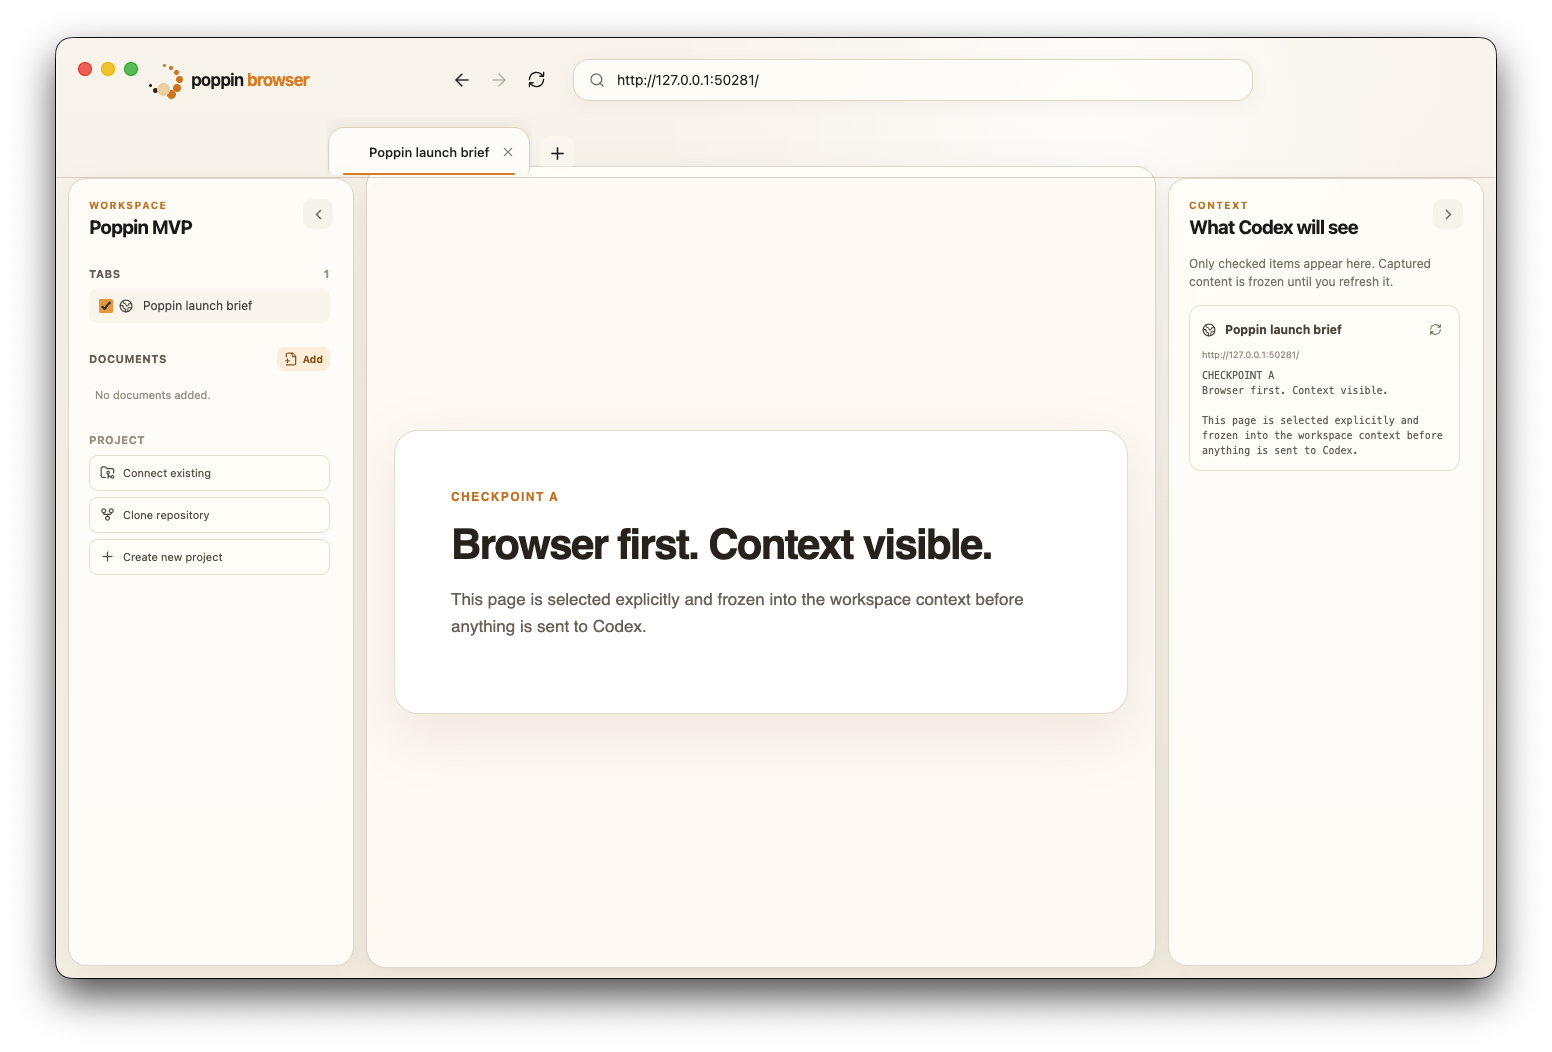
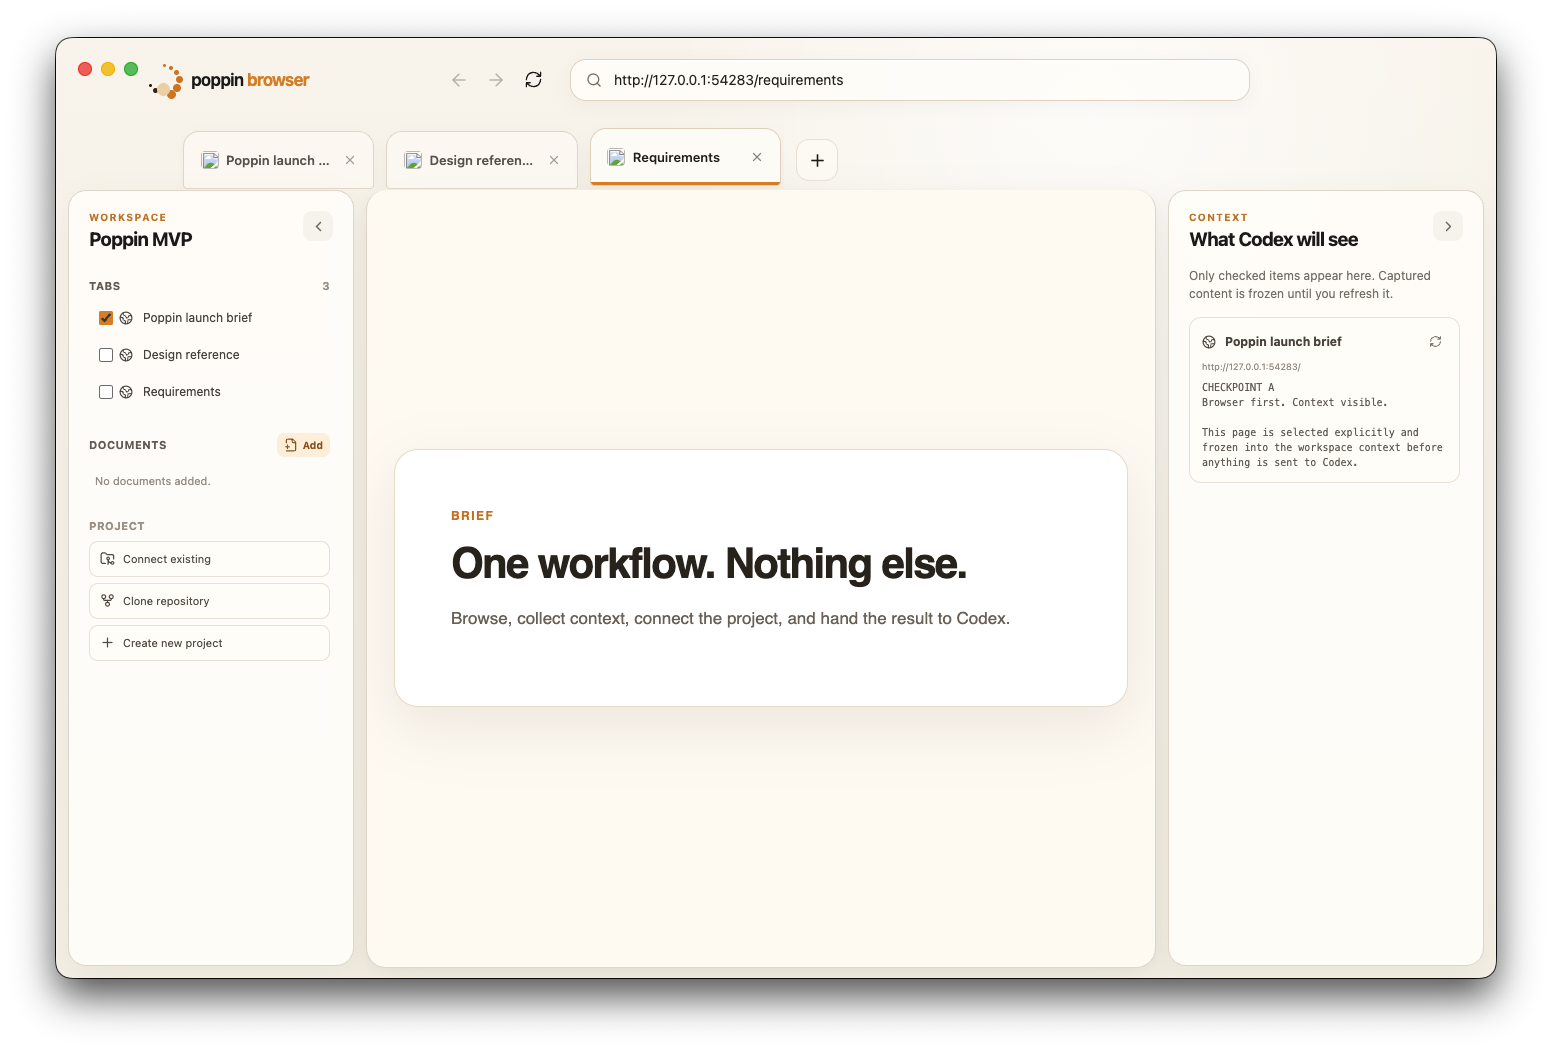
fix: align workspace chrome and tabs

diff --git a/src/renderer/styles.css b/src/renderer/styles.css
@@ -37,9 +37,8 @@ button { color: inherit; }
 .browser-chrome {
   position: relative;
   z-index: 2;
-  height: 140px;
-  padding: 14px 18px 0 92px;
-  border-bottom: 1px solid rgba(210, 197, 181, .7);
+  height: 152px;
+  padding: 14px 24px 0 92px;
   -webkit-app-region: drag;
 }
 
@@ -159,12 +158,12 @@ button { color: inherit; }
 .tab-row {
   display: flex;
   align-items: end;
-  height: 70px;
-  margin-left: 178px;
-  gap: 8px;
+  height: 82px;
+  margin-left: 32px;
+  gap: 12px;
   -webkit-app-region: no-drag;
 }
-.tab-strip { display: flex; min-width: 0; max-width: calc(100% - 58px); gap: 8px; overflow-x: auto; padding: 12px 2px 0; scrollbar-width: none; }
+.tab-strip { display: flex; min-width: 0; max-width: calc(100% - 64px); gap: 12px; overflow-x: auto; padding: 16px 3px 0; scrollbar-width: none; }
 .tab-strip::-webkit-scrollbar { display: none; }
 .tab {
   position: relative;
@@ -172,44 +171,45 @@ button { color: inherit; }
   grid-template-columns: 18px minmax(70px, 1fr) 22px;
   align-items: center;
   gap: 8px;
-  flex: 0 1 230px;
-  min-width: 150px;
-  max-width: 260px;
-  height: 48px;
-  padding: 0 10px 0 14px;
+  flex: 0 1 250px;
+  min-width: 170px;
+  max-width: 280px;
+  height: 58px;
+  padding: 0 12px 0 16px;
   overflow: hidden;
-  border: 1px solid rgba(222, 211, 198, .7);
-  border-bottom: 0;
-  border-radius: 16px 16px 6px 6px;
+  border: 1px solid rgba(226, 215, 202, .86);
+  border-radius: 16px 16px 4px 4px;
   color: #625b53;
-  background: rgba(247, 241, 231, .52);
+  background: rgba(255, 252, 247, .58);
+  box-shadow: 0 4px 14px rgba(67, 45, 20, .035);
   cursor: default;
   text-align: left;
   user-select: none;
   transition: transform 140ms ease, background-color 140ms ease, box-shadow 140ms ease;
 }
-.tab:hover { background: rgba(255, 252, 247, .72); }
+.tab:hover { transform: translateY(-1px); background: rgba(255, 253, 249, .82); box-shadow: 0 7px 18px rgba(67, 45, 20, .055); }
 .tab-active {
-  transform: translateY(-2px);
+  transform: translateY(-3px);
   color: #251f1a;
-  background: rgba(255, 253, 249, .96);
-  border-color: #e4d7c5;
-  box-shadow: 0 -5px 18px rgba(67, 45, 20, .065);
+  background: rgba(255, 253, 249, .98);
+  border-color: #e5d6c2;
+  box-shadow: 0 9px 24px rgba(67, 45, 20, .085), 0 2px 7px rgba(67, 45, 20, .035);
 }
-.tab-active::after { content: ''; position: absolute; left: 14px; right: 14px; bottom: 0; height: 2px; border-radius: 999px; background: var(--amber-strong); }
-.tab-icon { display: grid; place-items: center; width: 17px; height: 17px; color: #9b6b32; }
-.tab-icon img { display: block; width: 16px; height: 16px; border-radius: 4px; object-fit: contain; }
-.tab-title { overflow: hidden; font-size: 13px; font-weight: 520; text-overflow: ellipsis; white-space: nowrap; }
+.tab-active:hover { transform: translateY(-3px); }
+.tab-active::after { content: ''; position: absolute; left: 0; right: 0; bottom: 0; height: 3px; background: var(--amber-strong); }
+.tab-icon { display: grid; place-items: center; width: 19px; height: 19px; color: #9b6b32; }
+.tab-icon img { display: block; width: 18px; height: 18px; border-radius: 4px; object-fit: contain; }
+.tab-title { overflow: hidden; font-size: 13px; font-weight: 570; text-overflow: ellipsis; white-space: nowrap; }
 .tab-close { display: grid; place-items: center; width: 22px; height: 22px; padding: 0; border: 0; border-radius: 7px; color: inherit; background: transparent; opacity: .55; }
 .tab-close:hover, .tab-close:focus-visible { background: rgba(88, 58, 30, .1); opacity: 1; outline: none; }
 .tab-loading { position: absolute; left: 15px; bottom: 0; width: 36%; height: 2px; border-radius: 999px; background: var(--amber); animation: tab-progress 1s ease-in-out infinite alternate; }
 @keyframes tab-progress { to { left: 58%; } }
-.new-tab-button { flex: 0 0 auto; margin-bottom: 7px; background: rgba(255, 252, 247, .45); }
+.new-tab-button { flex: 0 0 auto; width: 42px; height: 42px; margin-bottom: 8px; border: 1px solid rgba(228, 217, 204, .7); border-radius: 13px; background: rgba(255, 252, 247, .58); }
 
 .browser-stage {
   position: absolute;
   z-index: 1;
-  inset: 128px 340px 10px 310px;
+  inset: 152px 340px 10px 310px;
   border: 1px solid rgba(226, 216, 204, .9);
   border-radius: 20px;
   background: var(--surface);
@@ -223,7 +223,7 @@ button { color: inherit; }
 .side-rail {
   position: absolute;
   z-index: 3;
-  top: 140px;
+  top: 152px;
   bottom: 12px;
   border: 1px solid rgba(226, 216, 204, .92);
   background: rgba(255, 253, 249, .94);
@@ -340,7 +340,8 @@ button { color: inherit; }
   .top-row { grid-template-columns: 150px 1fr; gap: 12px; }
   .brand-name { font-size: 15px; }
   .toolbar-controls { grid-template-columns: 108px minmax(260px, 1fr) 20px; }
-  .tab-row { margin-left: 150px; }
+  .tab-row { margin-left: 16px; }
+  .tab { min-width: 158px; }
 }
 
 @media (prefers-reduced-motion: reduce) {

diff --git a/src/main/browser/browser-engine.ts b/src/main/browser/browser-engine.ts
@@ -24,7 +24,7 @@ import { displayUrl, NEW_TAB_URL, normalizeAddressInput } from './url-input';
 import type { CapturedTabContext } from '../../shared/workspace';
 
 const PAGE_MARGIN = 12;
-const CHROME_HEIGHT = 140;
+const CHROME_HEIGHT = 152;
 const SAVE_DELAY_MS = 250;
 const MAX_LAYOUT_INSET = 520;
 const MAX_TAB_CONTEXT_CHARACTERS = 60_000;
@@ -242,8 +242,8 @@ export class BrowserEngine {
       this.syncNavigationState(tab);
       this.updateTab(tab, { isLoading: false });
     });
-    contents.on('did-navigate', (_event, url) => this.handleNavigation(tab, url));
-    contents.on('did-navigate-in-page', (_event, url) => this.handleNavigation(tab, url));
+    contents.on('did-navigate', (_event, url) => this.handleNavigation(tab, url, true));
+    contents.on('did-navigate-in-page', (_event, url) => this.handleNavigation(tab, url, false));
     contents.on('page-title-updated', (_event, title) => {
       if (!contents.getURL().startsWith('poppin://error')) this.updateTab(tab, { title: title || 'Untitled' });
     });
@@ -273,7 +273,7 @@ export class BrowserEngine {
     });
   }
 
-  private handleNavigation(tab: BrowserTabRecord, url: string): void {
+  private handleNavigation(tab: BrowserTabRecord, url: string, resetFavicon: boolean): void {
     if (url.startsWith('poppin://error')) return;
     const isNewTab = url.startsWith('poppin://new-tab');
     tab.lastExternalUrl = isNewTab ? NEW_TAB_URL : url;
@@ -282,6 +282,7 @@ export class BrowserEngine {
       url: displayUrl(url),
       title: isNewTab ? 'New Tab' : tab.snapshot.title,
       failure: null,
+      ...(resetFavicon ? { faviconUrl: null } : {}),
     });
     this.scheduleSave();
   }
